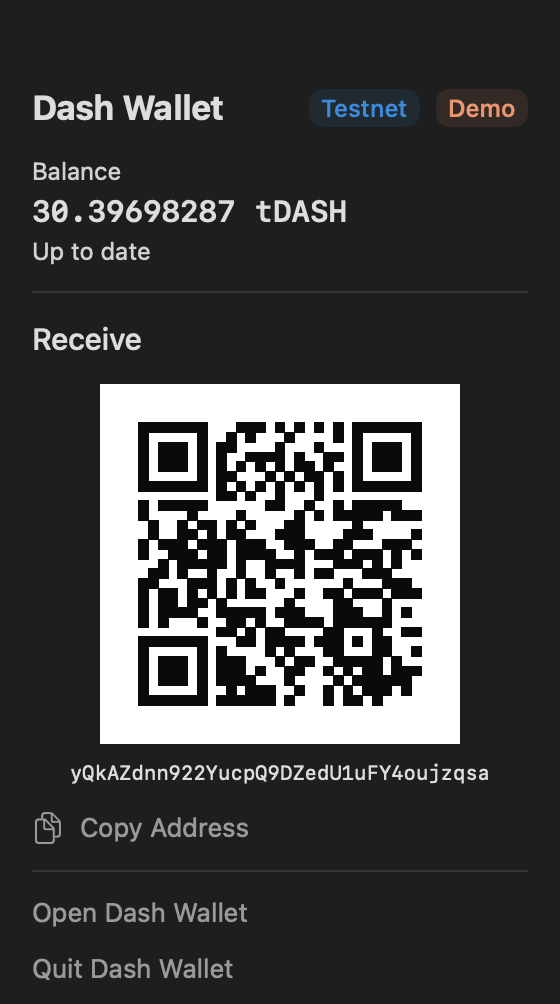
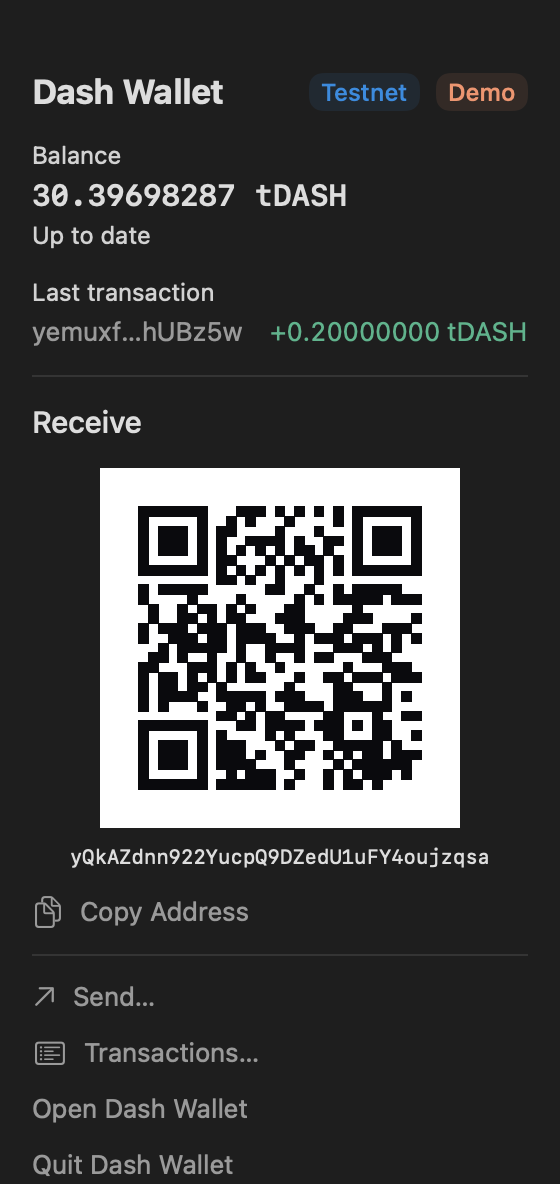
test(macui): render the sync overlay and peers sheet and refresh the M1 screenshots
ScreenTests now also captures the sync overlay (with rates from two
samples) and the peers sheet in light and dark. The menu bar capture is
tall enough for its header, and the last-transaction amount no longer
truncates. All PNGs in docs/screenshots/m1 are re-rendered from this
branch.

diff --git a/Tests/MacUITests/ScreenTests.swift b/Tests/MacUITests/ScreenTests.swift
@@ -166,7 +166,39 @@ struct ScreenTests {
     @Test(arguments: [ColorScheme.light, .dark])
     func menuBar(_ scheme: ColorScheme) async throws {
         let model = try await Self.model(.funded, scheme)
-        try await Self.capture(MenuBarContentView(model: model), CGSize(width: 280, height: 470), scheme, "menu-bar")
+        try await Self.capture(MenuBarContentView(model: model), CGSize(width: 280, height: 560), scheme, "menu-bar")
+    }
+
+    @Test(arguments: [ColorScheme.light, .dark])
+    func syncOverlay(_ scheme: ColorScheme) async throws {
+        let model = try await Self.model(.funded, scheme)
+        let tip = Date().addingTimeInterval(-3 * 86_400)
+        let status = SyncStatus(
+            running: true,
+            phases: [SyncPhaseProgress(phase: .headers, currentHeight: 1_180_000, targetHeight: 1_190_000, done: false)],
+            activePhase: .headers, tipHeight: 1_180_000, tipDate: tip, chainLockHeight: nil, connectedPeers: 6,
+            progress: 0.42, isDone: false, isStalled: false)
+        #expect(SyncRateTracker.tipIsOld(status))
+        let rates = SyncRateTracker()
+        rates.record(status, at: Date().addingTimeInterval(-600))
+        let later = SyncStatus(
+            running: true,
+            phases: [SyncPhaseProgress(phase: .headers, currentHeight: 1_182_000, targetHeight: 1_190_000, done: false)],
+            activePhase: .headers, tipHeight: 1_182_000, tipDate: tip, chainLockHeight: nil, connectedPeers: 6,
+            progress: 0.47, isDone: false, isStalled: false)
+        rates.record(later)
+        // The overlay alone: the demo chrome's status bar reports a synced wallet.
+        try await Self.capture(
+            SyncOverlayView(status: later, rates: rates, syncText: "Syncing Headers (47%)…", hide: {}),
+            CGSize(width: 640, height: 480), scheme, "sync-overlay")
+    }
+
+    @Test(arguments: [ColorScheme.light, .dark])
+    func peers(_ scheme: ColorScheme) async throws {
+        let model = try await Self.model(.funded, scheme)
+        let sync = try #require(model.env?.sync)
+        #expect(try await sync.peers().count == 8)
+        try await Self.capture(PeersSheet(sync: sync), CGSize(width: 680, height: 380), scheme, "peers")
     }
 
     // MARK: Behaviour without rendering

diff --git a/Sources/MacUI/MenuBar/MenuBarContentView.swift b/Sources/MacUI/MenuBar/MenuBarContentView.swift
@@ -52,6 +52,8 @@ struct MenuBarContentView: View {
                                 Spacer()
                                 Text(last.amountText)
                                     .monospacedDigit()
+                                    .lineLimit(1)
+                                    .fixedSize()
                                     .foregroundStyle(last.isIncoming ? Color.dash.successText : Color.dash.primaryText)
                             }
                             .dashFont(.footnote)
